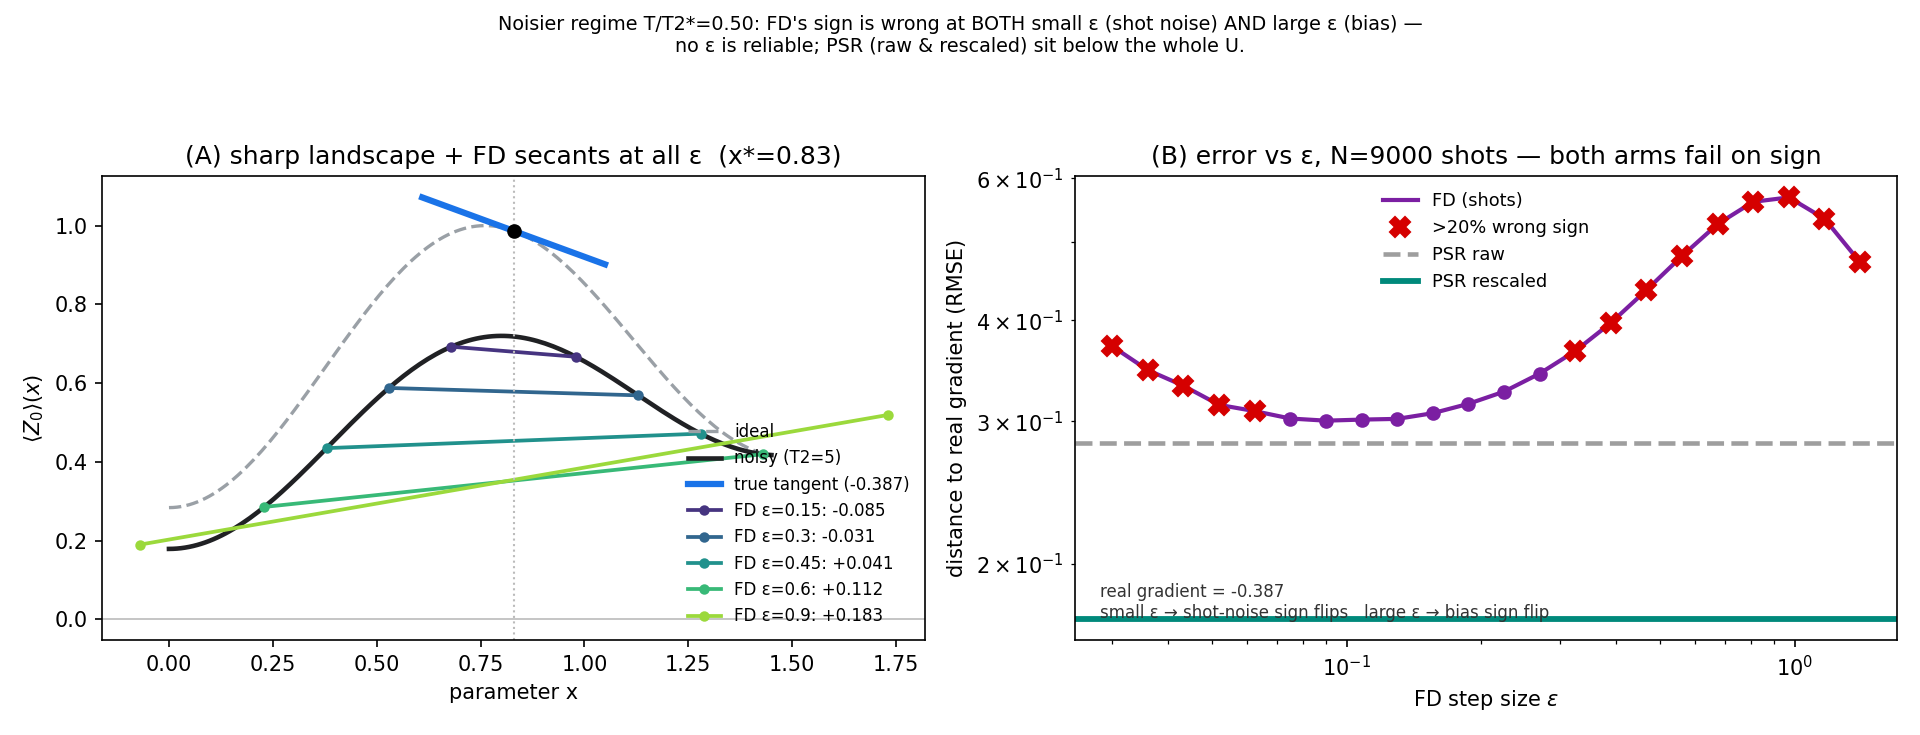
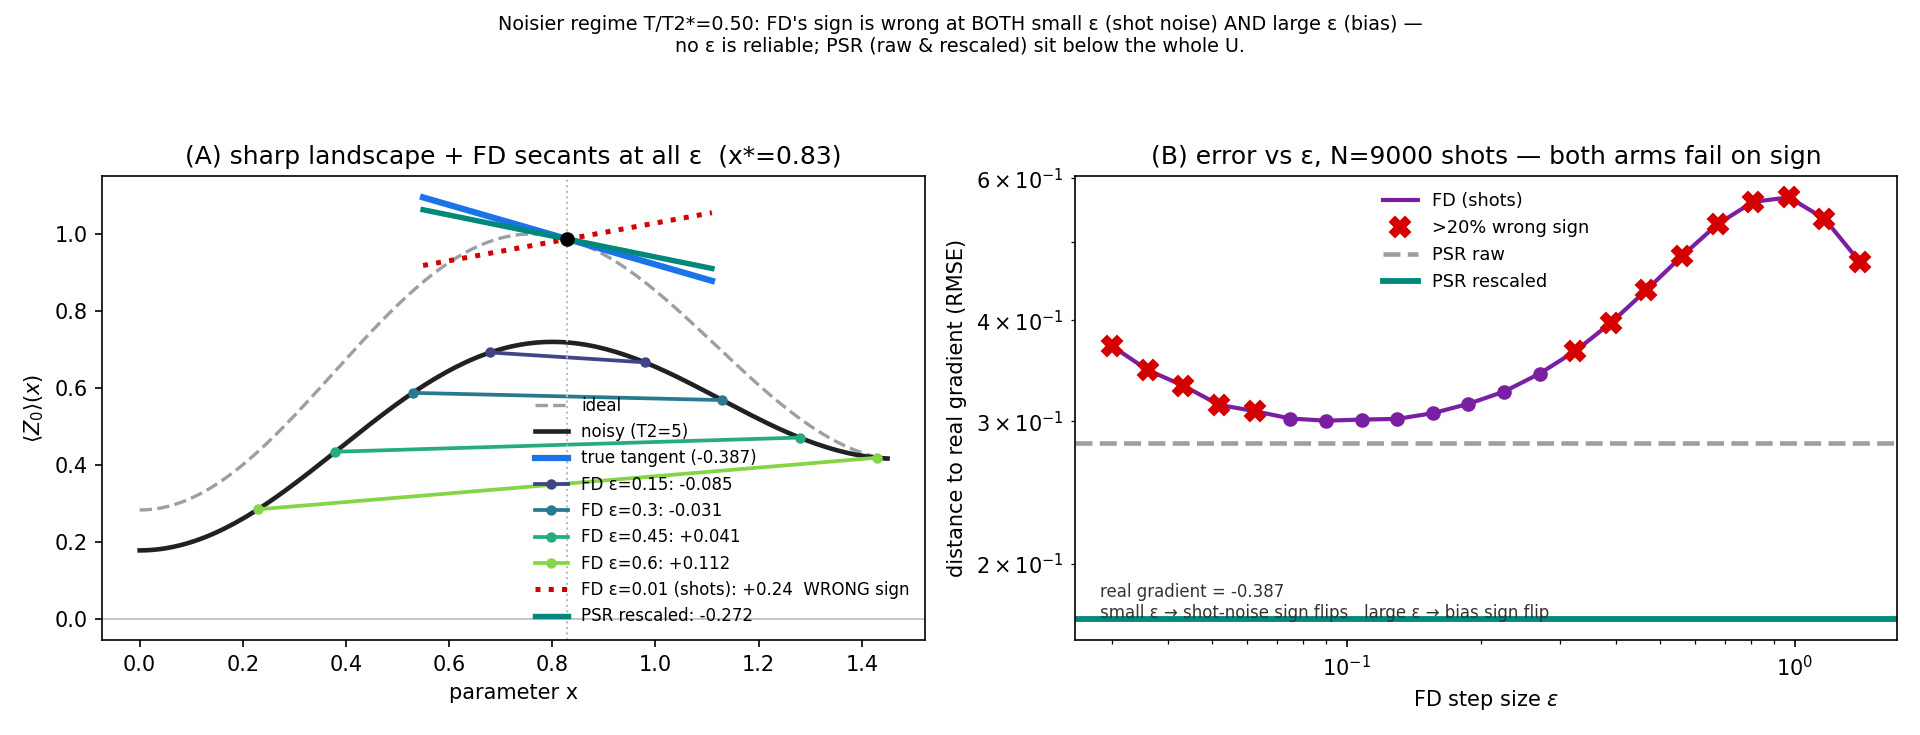
Panel A: drop ε=0.9, add ε=0.01 (shot-noise wrong sign) + PSR rescaled overlay
Per request, on the landscape panel of landscape_and_distance_noisy:
- removed the ε=0.9 secant (secants now ε=0.15/0.3/0.45/0.6),
- added a tiny ε=0.01 line drawn from a representative SHOT-SAMPLED realization
  (red dotted) — its slope is shot-noise dominated and has the WRONG sign,
  visualizing the small-ε variance failure directly on the landscape,
- overlaid the PSR rescaled mean estimate (teal, -0.272) sitting close to the
  true tangent (-0.387, same sign) — showing PSR rescaled recovers the direction
  and most of the magnitude where FD (every ε) fails.

figures/landscape_and_distance_noisy.png.

diff --git a/differential_computing/tests/landscape_and_distance_noisy.py b/differential_computing/tests/landscape_and_distance_noisy.py
@@ -130,15 +130,33 @@ def main():
     gx = np.linspace(0.0, 1.45, 150)
     axA.plot(gx, [fc(x) for x in gx], "--", color="#9aa0a6", lw=1.6, label="ideal")
     axA.plot(gx, [fn(x) for x in gx], color="#202124", lw=2.2, label=f"noisy (T2={T2:.0f})")
-    z0 = fc(x_star); tx = np.array([x_star - 0.22, x_star + 0.22])
-    axA.plot(tx, z0 + g_real*(tx - x_star), color="#1a73e8", lw=3,
+    z0 = fc(x_star); ex = np.array([x_star - 0.28, x_star + 0.28])
+    axA.plot(ex, z0 + g_real*(ex - x_star), color="#1a73e8", lw=3,
              label=f"true tangent ({g_real:+.3f})")
-    sec_eps = [0.15, 0.3, 0.45, 0.6, 0.9]
-    cmap = plt.cm.viridis(np.linspace(0.15, 0.85, len(sec_eps)))
+    # moderate/large ε: exact secants (segments showing how ε spans the landscape)
+    sec_eps = [0.15, 0.3, 0.45, 0.6]
+    cmap = plt.cm.viridis(np.linspace(0.2, 0.82, len(sec_eps)))
     for eps, c in zip(sec_eps, cmap):
         fp_e, fm_e = fn(x_star+eps), fn(x_star-eps)
         axA.plot([x_star-eps, x_star+eps], [fm_e, fp_e], "o-", color=c, lw=1.8,
                  ms=4, label=f"FD ε={eps}: {(fp_e-fm_e)/(2*eps):+.3f}")
+    # tiny ε=0.01: shot-noise dominated → a typical realization flips the sign
+    n0 = N_SHOTS // 2
+    sl01 = None
+    for _ in range(20):
+        fp01 = 2*rng.binomial(n0, 0.5*(1+np.clip(fn(x_star+0.01), -1, 1)))/n0 - 1
+        fm01 = 2*rng.binomial(n0, 0.5*(1+np.clip(fn(x_star-0.01), -1, 1)))/n0 - 1
+        cand = (fp01 - fm01) / 0.02
+        if np.sign(cand) != sgn:                  # a representative wrong-sign draw
+            sl01 = cand; break
+    if sl01 is None:
+        sl01 = cand
+    axA.plot(ex, z0 + sl01*(ex - x_star), ":", color="#d50000", lw=2.4,
+             label=f"FD ε=0.01 (shots): {sl01:+.2f}  WRONG sign")
+    # PSR rescaled mean — sits on the true tangent
+    psr_slope = float(np.mean(raw)) * factor
+    axA.plot(ex, z0 + psr_slope*(ex - x_star), "-", color="#00897b", lw=2.6,
+             label=f"PSR rescaled: {psr_slope:+.3f}")
     axA.axhline(0, color="#bbb", lw=0.8); axA.axvline(x_star, color="#bbb", ls=":", lw=1)
     axA.plot([x_star], [z0], "ko", ms=6)
     axA.set_xlabel("parameter x"); axA.set_ylabel(r"$\langle Z_0\rangle(x)$")
